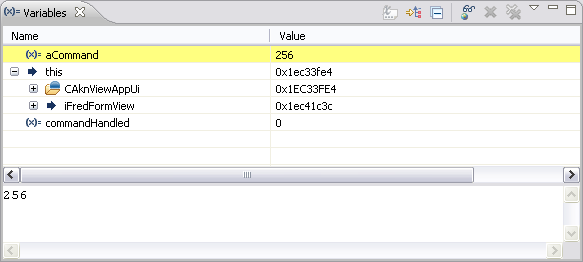
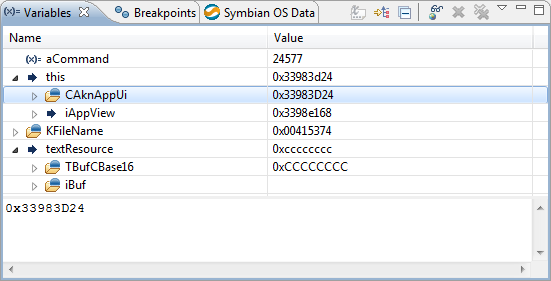
revised variables view page and added new images

Changed region(s): [[0.0, 0.0, 1.0, 1.0], [0.4936, 0.5191, 0.6171, 0.5496]]

diff --git a/core/com.nokia.carbide.cpp.doc.user/html/debugger/variables/viewing_variables.htm b/core/com.nokia.carbide.cpp.doc.user/html/debugger/variables/viewing_variables.htm
@@ -11,7 +11,7 @@
 <h2>Viewing Variables </h2>
 <p>The <b>Variables</b> view allows manipulation of project  variables and the variable hierarchy used in the source code. For example, you can change the variable format, change a variable value, add watch expressions, or add global variables. </p>
 <p>Figure 1 shows the Variables view with <b>Show Type Names</b> option enabled. The default view shows the variables list and include the Name and Value for all the variables within scope. In addition, when you select a variable its value is also shown in a different pane within the view.</p>
-<p align="center"><img src="../images/view_variables.png" width="583" height="262"></p>
+<p align="center"><img src="../images/view_variables.png" width="551" height="281"></p>
 <p class="figure">Figure 1 - Variables view </p>
 <h3>Variables view toolbar icons</h3>
 <p>The following commands appear on the Variables view toolbar: </p>
@@ -52,15 +52,16 @@
     <td>Click to remove all global variables from the variables list. </td>
   </tr>
   <tr>
-    <td><b>Menu</b></td>
+    <td><b>View Menu</b></td>
     <td><div align="center"><img src="../images/icon_menu_white.png" width="12" height="12"></div></td>
-    <td><p>Enables you to modifiy the <b>Layout</b> to change the view orientation between: horizontal, vertical, or variables pane only.</p>
+    <td><p>Enables you to modifiy the <b>Layout</b> to change the view orientation between: horizontal, vertical, or variables pane only and customize the columns shown in the view.</p>
+        <p align="center"><img src="../images/menu_view_variables_01.png" alt="View menu" width="373" height="158"></p>
         <p>In addition, use <b>Show All Variables</b> to toggle between showing only those variables that are in scope and live or   show all local variables, even if redundant. With this option on you will see all of the variables including the multiple defined variables like &ldquo;i&rdquo; for your loops  and ones that may no longer have accurate values.</p></td>
   </tr>
 </table>
 <h3>Variables view context menu options</h3>
 <p>Right-click in the <b>Variables</b> view to access the commands on the Variables view context menu.</p>
-<p align="center"><img src="../images/view_variables_menu_cmds.png" width="236" height="334"></p>
+<p align="center"><img src="../images/menu_view_variables_02.png" alt="Variables view context menu" width="424" height="344"></p>
 <p class="figure">Figure 2. Variables view context menu commands</p>
 <p>The  commands include: </p>
 <table width="100%"  border="0" cellpadding="2" cellspacing="0">
@@ -74,7 +75,8 @@
   </tr>
   <tr>
     <td><b>Copy Variables</b></td>
-    <td>Copies the selected variables to the clipboard.</td>
+    <td><p>Copies the selected variables to the clipboard.</p>
+        <p class="note"><strong>NOTE</strong> Only the selected variables visible in the Variables view are copied. Variables listed outside the boundary of the view are not in memory and can't be copied at this time.</p></td>
   </tr>
   <tr>
     <td><b>Enable</b></td>
@@ -85,59 +87,61 @@
     <td>Disables the selected variable.</td>
   </tr>
   <tr>
-    <td><b>Display as Array...</b></td>
-    <td>&nbsp;</td>
-  </tr>
-  <tr>
     <td><b>Cast To Type...</b></td>
-    <td>Opens the <b>Cast to Type</b> dialog where you can assign a new type to the variable.</td>
+    <td><p>Opens the <b>Cast to Type</b> dialog where you can assign a new type to the variable. Enter the type and click <strong>OK</strong>. </p>
+        <p>All cast variables are then shown using the <strong>Restore Original Type</strong> menu option making them easy to identify and restore later.</p>
+        <p align="center"><img src="../images/wnd_cast_to_type.png" alt="Cast To Type window" width="488" height="197"></p>
+        </td>
   </tr>
   <tr>
-    <td><p><b>Restore Original Type</b></p>    </td>
-    <td>Resets the selected variable to the original type assigned by the program.</td>
+      <td><strong>Display As Array...</strong></td>
+      <td><p>Opens the <strong>Display as Array</strong> dialog where you can set array parameters to show the variables. Enter the <strong>Start index</strong> and <strong>Length</strong>, then click <strong>OK</strong> to update how the variables are shown in the Variables view.</p>
+        <p align="center"><img src="../images/wnd_display_as_array.png" alt="Display as Array" width="488" height="195"></p></td>
   </tr>
   <tr>
     <td><b>View Memory</b></td>
-    <td>Opens a <b>Memory</b> view on the selected variable so you can examine it.</td>
+    <td>Opens a <a href="../../reference/view_memory_wnd.htm">Memory</a> view on the selected variable so you can examine it.</td>
+  </tr>
+  <tr>
+      <td><b>Format</b></td>
+      <td><p>Change the selected variable's  display format. The default setting is Natural, or the format assigned when the variable is defined. For example, the decimal value of 256 would appear as:</p>
+              <ul>
+                  <li>Binary (<span class="code">0b100000</span>)</li>
+                  <li>Natural (<span class="code">256</span>)</li>
+                  <li>Decimal (<span class="code">256</span>)</li>
+                  <li>Hexadecimal (<span class="code">0x100</span>)</li>
+              </ul></td>
   </tr>
   <tr>
     <td><b>Find...</b></td>
-    <td>Opens a <b>Find</b> dialog to search for variables.</td>
+    <td><p>Opens a <b>Find</b> dialog to search for variables. Enter the variable to search for and click <strong>OK</strong>.</p>
+        <p align="center"><img src="../images/wnd_find_variables.png" alt="Find window" width="398" height="437"></p></td>
   </tr>
   <tr>
     <td><b>Change Value...</b></td>
     <td><p>Opens the <b>Set Value</b> dialog where you can modify the value assigned to the selected variable. Change the value and click <b>OK</b>.</p>
-    <p align="center"><img src="../images/wnd_set_value.png" width="401" height="214"></p></td>
+    <p align="center"><img src="../images/wnd_set_value.png" width="488" height="234"></p></td>
+  </tr>
+  <tr>
+      <td><b>Add Global Variables...</b></td>
+      <td>Select  to open the <a href="adding_variables.htm">Global Variables</a> dialog where you can select one or more global variables to display in the Variables view. Global variables appear at the top of the variables list. </td>
+  </tr>
+  <tr>
+      <td><b>Remove Global Variables</b></td>
+      <td>Remove the selected global variables from the Variables view.</td>
+  </tr>
+  <tr>
+      <td><b>Remove All Global Variables</b></td>
+      <td>Remove all  global variables from the Variables view.</td>
   </tr>
   <tr>
     <td><b>Add Watchpoint (C/C++)...</b></td>
-    <td>Opens the <a href="../watchpoints/setting_watchpoints.htm">Add Watchpoint</a> dialog enabling you to define a watchpoint on the variable.</td>
+    <td><p>Opens the <a href="../watchpoints/setting_watchpoints.htm">Add Watchpoint</a> dialog enabling you to define a watchpoint on the variable.</p>
+        <p align="center"><img src="../images/wnd_add_watchpoint.png" alt="Add Watchpoint window" width="238" height="253"></p></td>
   </tr>
   <tr>
-    <td><b>Add Global Variables...</b></td>
-    <td>Select  to open the <a href="adding_variables.htm">Global Variables</a> dialog where you can select one or more global variables to display in the Variables view. Global variables appear at the top of the variables list. </td>
-  </tr>
-  <tr>
-    <td><b>Remove Global Variables</b></td>
-    <td>Remove the selected global variables from the Variables view.</td>
-  </tr>
-  <tr>
-    <td><b>Remove All Global Variables</b></td>
-    <td>Remove all  global variables from the Variables view.</td>
-  </tr>
-  <tr>
-    <td><b>Create Watch Expression</b></td>
+    <td><b> Watch</b></td>
     <td>Creates a watchpoint on the selected variable and displays it in the <a href="../watchpoints/watchpoints.htm">Watchpoint</a> view. </td>
-  </tr>
-  <tr>
-    <td><b>Format</b></td>
-    <td><p>Change the selected variable's  display format. The default setting is Natural, or the format assigned when the variable is defined. For example, the decimal value of 256 would appear as:</p>
-      <ul>
-        <li>Binary (<span class="code">0b100000</span>)</li>
-        <li>Natural (<span class="code">256</span>)</li>
-        <li>Decimal (<span class="code">256</span>)</li>
-        <li>Hexadecimal (<span class="code">0x100</span>)</li>
-    </ul>      </td>
   </tr>
 </table>
 <h5>Other references</h5>

diff --git a/core/com.nokia.carbide.cpp.doc.user/html/debugger/watchpoints/setting_watchpoints.htm b/core/com.nokia.carbide.cpp.doc.user/html/debugger/watchpoints/setting_watchpoints.htm
@@ -12,7 +12,7 @@
 <p>You create a watchpoint to monitor a value in a specified memory location. The debugger halts program execution on the line of source code that triggered the watchpoint. This is different than a breakpoint, which halts program execution prior to executing the line of source code on which the breakpoint is set.</p>
 <h4>Setting watchpoints</h4>
 <p>Right-click in the <a href="../breakpoints/viewing_breakpoints.htm">Breakpoints</a> view and choose the  <b>Add Watchpoint (C/C++)...</b> command to open the <b>Add Watchpoint</b> window. A watchpoint suspends program execution when the memory location that you specify is accessed with a write or read operation and it's based on the access setting. Use the <b>Add Watchpoint</b> window to specify the  memory location, its memory size, unit size, and define whether the watchpoint  triggers on a read, write, or on both operations. Watchpoints can also be added directly in the <a href="../../reference/view_variables.htm">Variables</a>, <a href="PLUGINS_ROOT/org.eclipse.cdt.doc.user/reference/cdt_u_outline_view.htm">Outline</a>, and the <a href="../../reference/view_memory_wnd.htm">Memory Rendering</a> views.</p>
-<p align="center"><img src="../images/wnd_add_watchpoint.png" width="220" height="261"></p>
+<p align="center"><img src="../images/wnd_add_watchpoint.png" width="238" height="253"></p>
 <p align="center" class="figure">Figure 1. Add Watchpoint window </p>
 <h5>Table 1. Add Watchpoint options </h5>
   <table width="88%"  border="0" cellpadding="2" cellspacing="0">

diff --git a/core/com.nokia.carbide.cpp.doc.user/html/debugger/variables/adding_variables.htm b/core/com.nokia.carbide.cpp.doc.user/html/debugger/variables/adding_variables.htm
@@ -10,9 +10,8 @@
 <body bgcolor="#FFFFFF">
 <h2>Adding and Removing Global Variables </h2>
 <p>The <a href="viewing_variables.htm">Variables</a> view can also display global variables used by the program. Right-click in the <a href="viewing_variables.htm">Variables</a> view and select the <b>Add Global Variables</b> menu option to open the <b>Global Variables</b> dialog. There you can select one or more global variables to display in the Variables view, clickiing <b>OK</b> when done. </p>
-<p align="center"><img src="../../images/views/wnd_select_global_variables.png" width="345" height="430" /></p>
+<p align="center"><img src="../images/wnd_global_variables.png" alt="Global Variables window" width="359" height="452"></p>
 <p class="figure">Figure 1 - Global Variables selection dialog</p>
-<p>&nbsp;</p>
 <h4>Removing Global Variables</h4>
 <p>Right-click in the <a href="viewing_variables.htm">Variables</a> view and select the <b>Add Global Variables</b> menu option to open the <b>Global Variables</b> dialog. Locate and uncheckmark the global variable to stop displaying, then click <b>OK</b>. This removes the selected global variable from the variables list.</p>
 <h5>Other references</h5>
